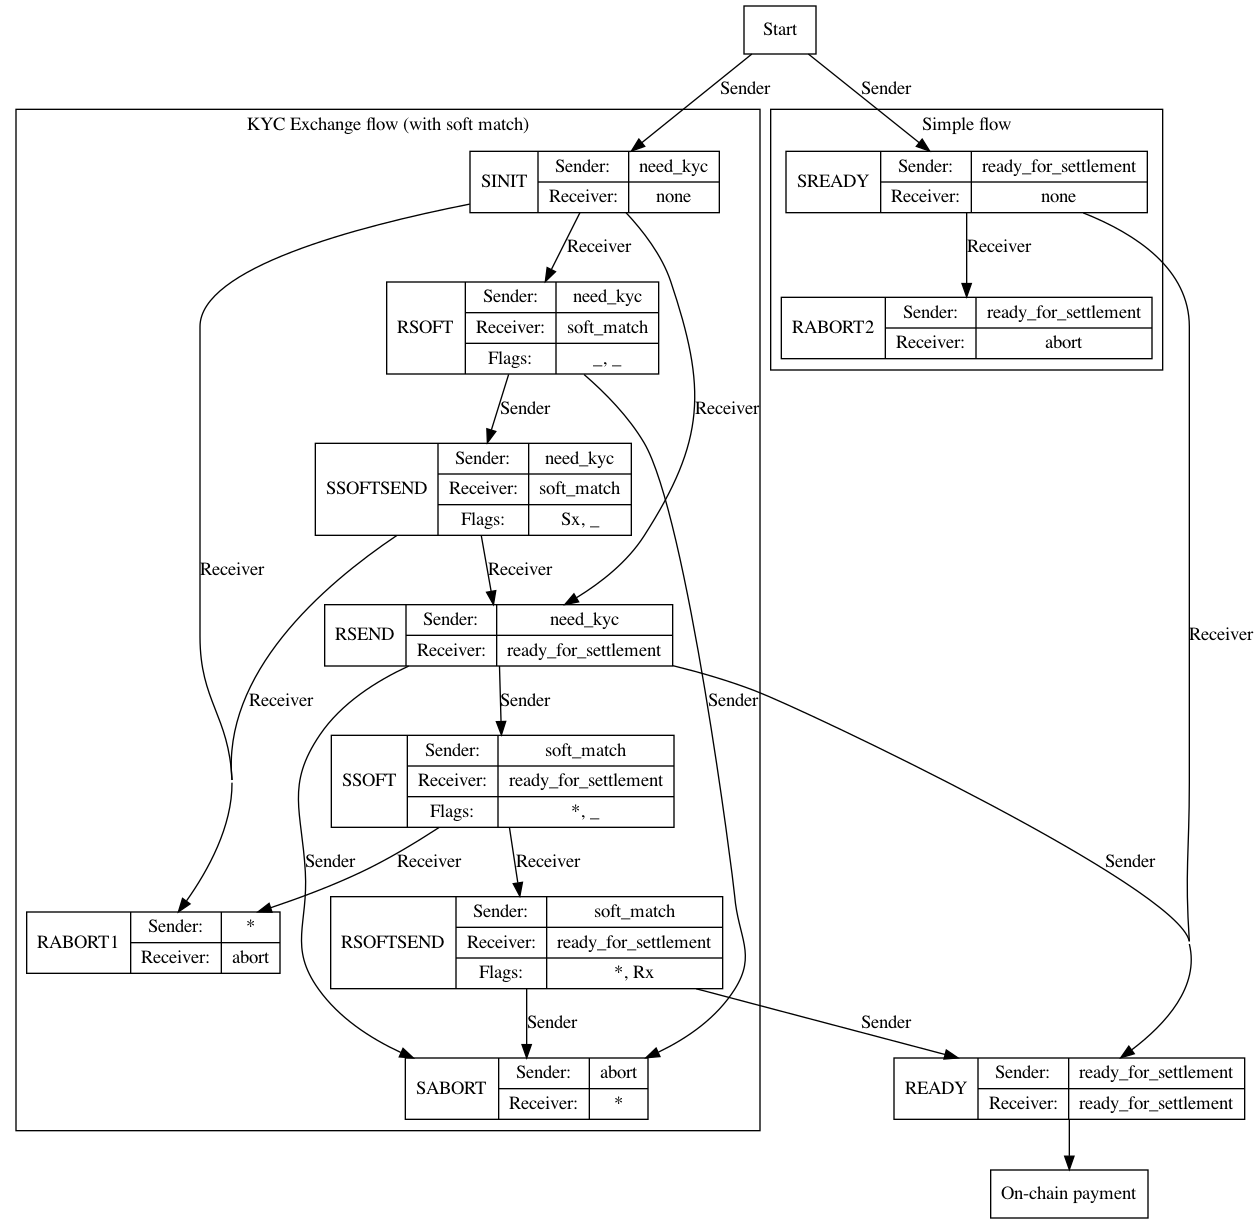
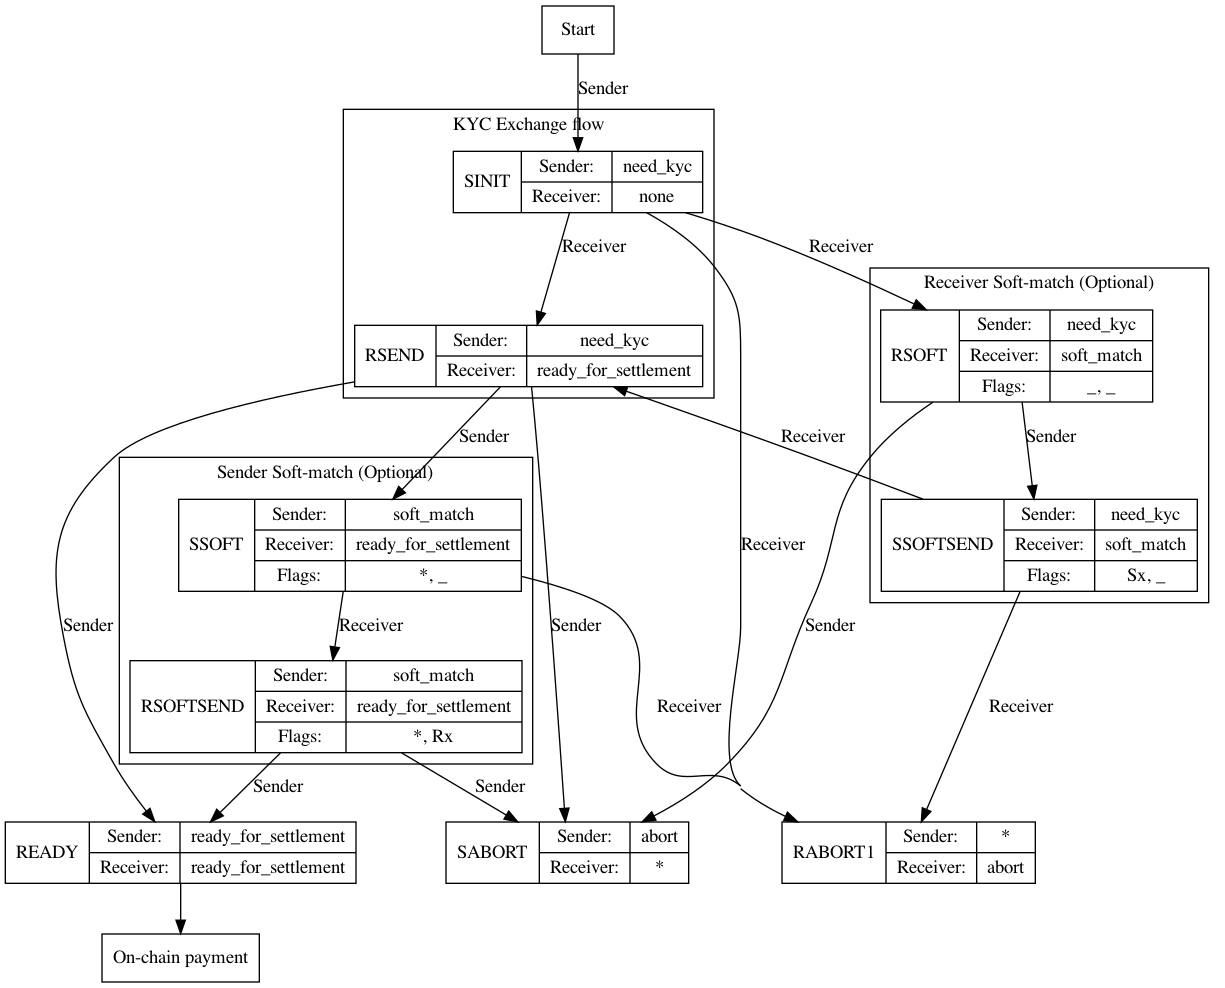
Removed simple flow.

diff --git a/docs/complex_state_machine.md b/docs/complex_state_machine.md
@@ -14,7 +14,7 @@ The protocol and data structures of LIP-1 are used.
 
 As a reminder: two VASPs participate in the off-chain protocol. They each can define a `PaymentCommand` that create or update a single `PaymentObject`. Each `PaymentCommand` is sent to the other VASP in a `CommandRequestObject` and responded to by a `CommandResponseObject`. A `success` status in the response indicates that the object is updated by both VASPs (a command `failure` indicates the command is invalid, and a protocol failure indicates the command should be resubmitted at a later time).
 
-The state machine of the protocol is described in the figure below.
+The state machine of the protocol is described in the figure below. An implicit abort state for the sender is available (SABORT) when the sender is expected to provide a command; similarly an implicit receiver abort state (RABORT) can be reached when the receiver is expected to provide a command. The full state transition diagram, including abort states, is available in the appendix.
 
 A state is determined by the tuple of the status of the Sender and Receiver Actors of the latest Payment Object, and two flags `Sx` and `Rx`. The exact fields in the payment object for Sender and Receiver actor status are `sender`->`status`->`status` and `receiver`->`status`->`status`. The flag `Sx` and `Rx` are set when the Sender or the Receiver has included `additional_kyc_data` in the actor field (`Sender`-> `kyc_data` -> `additional_kyc_data` and `Receiver`-> `kyc_data` -> `additional_kyc_data` respectively).
 
@@ -35,14 +35,12 @@ Soft-match disambiguation states:
 * SSOFT (`soft_match`, `ready_for_settlement`, `*`, `_`)
 * RSOFTSEND (`soft_match`, `ready_for_settlement`, `*`, `Rx`)
 
-Simple flow
-* SREADY: (`ready_for_settlement`, `none`, `*`, `*`)
-* RABORT2: (`ready_for_settlement`, `abort`, `*`, `*`)
-* (READY as above)
+A star (`*`) denotes _any_ value, while an underscore (`_`) for a flag denotes _not set_.
 
-The sender and receiver of the payment take turns issuing `PaymentCommand` Objects, until the object they create or mutate is in one of the final states, namely SABORT, RABORT1, RABORT2 or READY. In the diagram below the Sender or Receiver labels on state transition arcs indicate the originator of the command that triggers the transition. Some abort codes may allow a new payment to follow from an aborted payment.
+The sender and receiver of the payment take turns issuing `PaymentCommand` Objects, until the object they create or mutate is in one of the final states, namely SABORT, RABORT1 or READY. In the diagram below the Sender or Receiver labels on state transition arcs indicate the originator of the command that triggers the transition. Some abort codes may allow a new payment to follow from an aborted payment.
 
-![picture](state_machine_complex.png)
+![picture](state_machine_complex_noabort.png)
+
 
 ## Steps of the protocol: The KYC Exchange Flow
 
@@ -74,7 +72,7 @@ The receiver VASP examines the sender KYC information and is either not satisfie
 * `Receiver` -> `Status` -> `Status`: `abort`
 * `Receiver` -> `Status` -> `abort_code`: one of `no-kyc-needed` or `rejected`.
 
-The sender can initiate a payment using the Simple Flow in case of an abort with `no-kyc-needed`.
+The sender can initiate a payment on-chain in case of an abort with `no-kyc-needed`.
 
 ### RSEND -> READY
 
@@ -105,49 +103,13 @@ After the Sender initiates a payment by providing KYC information (SINIT), the R
 
 Similarly to the flow above, the Sender at state (RSEND) may decide they need for information about the receiver of the payment to disambiguate a soft-match. They set their status `Sender` -> `Status` -> `Status` to `soft-match` (state SSOFT). The receiver can abort (RABORT) or provide the additional KYC in `Receiever` -> `kyc_data` -> `additional_kyc` (state RSOFTSEND). The sender may then abort (SABORT) or move to READY, and settle the payment.
 
-## Steps of the protocol: The Simple Flow
-
-The simple flow is executed when the sending VASP believes there is no need for the exchange of KYC information. It does not include any sender KYC information, and indicates it is ready to settle on the first message (sequence of states SREADY -> READY).
-
-### Start -> SREADY
-
-The Sender issues `PaymentCommand` to crate initial payment.
-
-The sender sends a payment with all mandatory fields the the following optional fields populated as:
-
-* `Sender` -> `Status` -> `Status`: `ready_for_settlement`.
-* `Receiver` -> `Status` -> `Status`: `none`
-
-### SREADY -> RABORT
-
-The Receiver issues `PaymentCommand` to update an existing payment.
-
-The Receiver examines the payment and determines that either more information is needed or the payment cannot proceed. They issue an abort with the appropriate code.
-
-* `Receiver` -> `Status` -> `Status`: `abort`
-* `Receiver` -> `Status` -> `abort_code`: one of `need-kyc` or `rejected`.
-
-### SREADY -> READY
-
-The Receiver issues `PaymentCommand` to update an existing payment.
-
-The Receiver is satisfied that no KYC information exchange is needed and is happy to proceed with the payment. They send a command updating the fields:
-
-* `Receiver` -> `Status` -> `Status`: `ready_for_settlement`
-* `recipient_signature` = a valid recipient signature.
-
-### READY
-
-The sender upon observing a payment in the READY state can execute it on chain.
-
 ## Abort codes and `original_payment_reference_id`
 
 An abort can lead to the submission of a new payment that tries to make progress past the reasons for abort. The new payment must include a reference to the previous payment.
 
 The meaning of abort codes in the `Status` -> `abort_code` field of an `PaymentActorObject` are:
 
-* `need-kyc`: a payment needs the exchange of full KYC information. A new payment with this one in the `original_payment_reference_id` can be submitted using the KYC Exchange flow.
-* `no-kyc-needed`: the recipient indicates that they are not willing to provide KYC information since they judge that it is not necessary. A Simple flow payment can be initiated with this payment in its `original_payment_reference_id`.
+* `no-kyc-needed`: the recipient indicates that they are not willing to provide KYC information since they judge that it is not necessary. The payment can be directly executed on chain.
 * `rejected`: the payment is rejected. It should not be used in the `original_payment_reference_id` field of a new payment.
 
 ## Reference specification for JWS signatures used
@@ -157,3 +119,7 @@ TODO
 ## Reference specification for valid `recipient_signature` fields
 
 TODO
+
+## Appendix A: Full state machine including abort states
+
+![picture](state_machine_complex.png)
